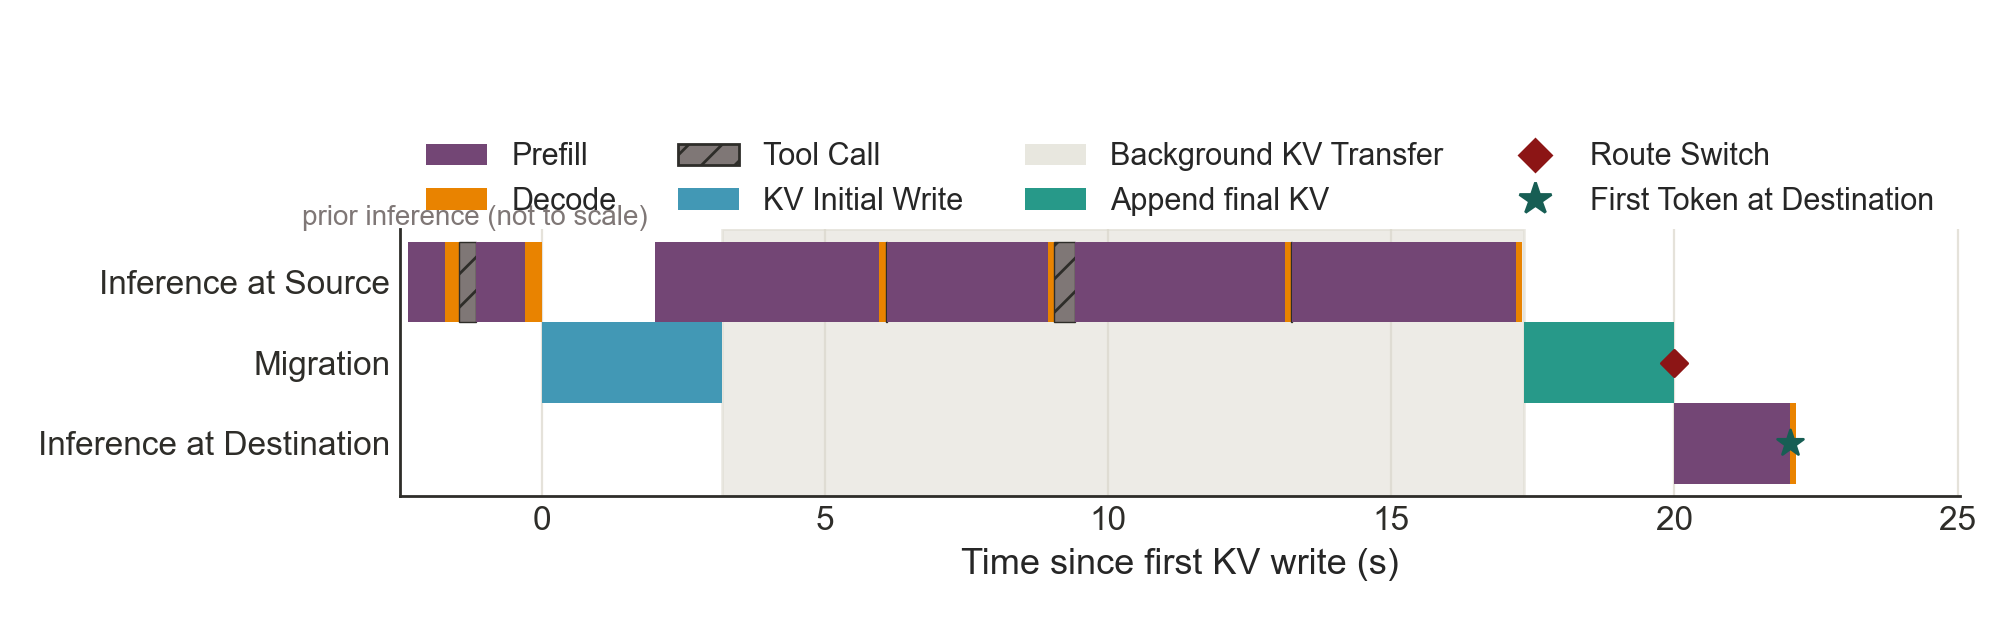
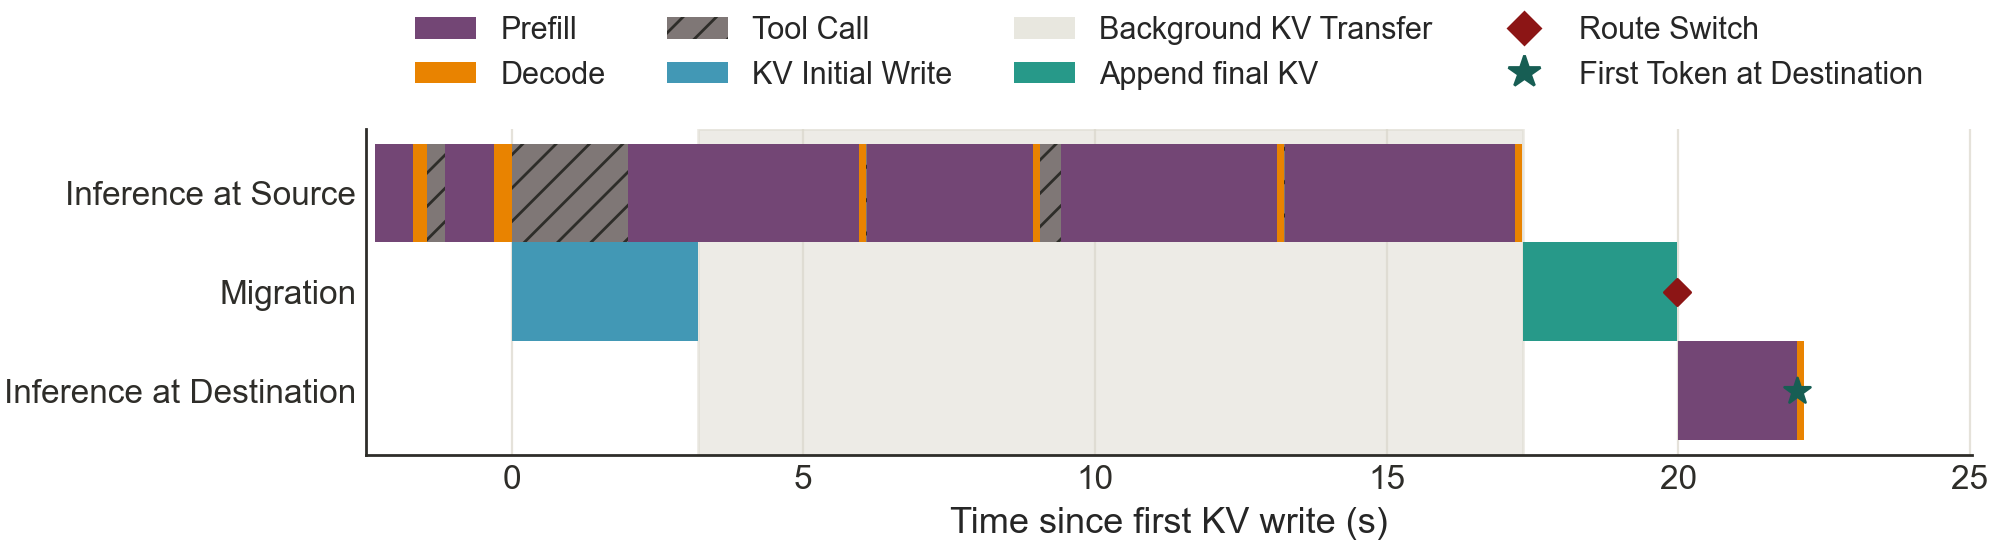
Polish compact handoff timelines

diff --git a/agent-migrate/queue-haul/plot_testbed_kv_timeline.py b/agent-migrate/queue-haul/plot_testbed_kv_timeline.py
@@ -128,6 +128,23 @@ def extract(root: Path, scenario_id: str) -> tuple[list[dict], list[dict]]:
         })
 
     segments = []
+    for session_id in continuations:
+        first_start = min(
+            int(row["start_ns"]) for row in activities
+            if row["session_id"] == session_id
+        )
+        if first_start > base:
+            segments.append({
+                "scenario_id": scenario_id,
+                "session_id": session_id,
+                "stage": "pre_activity",
+                "location": "source",
+                "phase": "Tool Call",
+                "start_s": 0,
+                "finish_s": seconds(first_start),
+                "evidence_status": "observed_application_gap",
+                "provenance": str(run / "result.json"),
+            })
     for index, activity in enumerate(activities):
         next_start = activities[index + 1]["start_ns"] \
             if index + 1 < len(activities) else None
@@ -222,7 +239,10 @@ def plot(timeline_path: Path, inference_path: Path, out: Path) -> None:
         ("catch_up_start_s", "catch_up_finish_s", phase_labels[1], "catch"),
     )
     if method == "replay":
-        phases = ()
+        phases = (
+            ("bulk_start_s", "bulk_send_finish_s", "Context Transfer", "bulk"),
+            ("catch_up_start_s", "catch_up_send_finish_s", "Context Transfer", "bulk"),
+        )
     gantt.axvspan(
         float(timeline[0]["quiesce_s"]),
         float(timeline[0]["catch_up_start_s"]),
@@ -246,12 +266,8 @@ def plot(timeline_path: Path, inference_path: Path, out: Path) -> None:
                 source_y, width, left=left, height=.32,
                 color=colors[phase], hatch="//" if phase == "tool" else None,
                 edgecolor=colors["text"] if phase == "tool" else "none",
-                linewidth=.5, zorder=3,
+                linewidth=0, zorder=3,
             )
-        gantt.text(
-            -1.18, source_y - .2, "prior inference (not to scale)",
-            ha="center", va="bottom", fontsize=10, color=colors["tool"],
-        )
         for start_name, end_name, label, color in phases:
             start, end = float(row[start_name]), float(row[end_name])
             gantt.barh(
@@ -275,7 +291,7 @@ def plot(timeline_path: Path, inference_path: Path, out: Path) -> None:
                 inference_y, end - start, left=start, height=.32,
                 color=colors[color], hatch="//" if color == "tool" else None,
                 edgecolor=colors["text"] if color == "tool" else "none",
-                linewidth=.5,
+                linewidth=0,
                 label=phase if phase not in inference_labels else None,
                 zorder=3,
             )
@@ -304,6 +320,7 @@ def plot(timeline_path: Path, inference_path: Path, out: Path) -> None:
         ),
         Patch(facecolor=colors["catch"], label=phase_labels[1]),
     ) if method == "kv_transfer" else (
+        Patch(facecolor=colors["bulk"], label="Context Transfer"),
         Patch(
             facecolor=colors["drain"], alpha=.6,
             label="Pause (drain active request)",
@@ -314,7 +331,7 @@ def plot(timeline_path: Path, inference_path: Path, out: Path) -> None:
         Patch(facecolor=colors["decode"], label="Decode"),
         Patch(
             facecolor=colors["tool"], edgecolor=colors["text"],
-            hatch="//", label="Tool Call",
+            hatch="//", linewidth=0, label="Tool Call",
         ),
         *migration_handles,
         Line2D(
@@ -343,9 +360,9 @@ def plot(timeline_path: Path, inference_path: Path, out: Path) -> None:
     end = max(float(row["first_token_s"]) for row in timeline) + 3
     gantt.set_xlim(-2.5, end)
     gantt.set_xticks(range(0, int(end) + 1, 5))
-    fig.subplots_adjust(left=.2, right=.98, top=.63, bottom=.2)
-    fig.savefig(out.with_suffix(".png"), dpi=200)
-    fig.savefig(out.with_suffix(".pdf"))
+    fig.tight_layout(pad=.25)
+    fig.savefig(out.with_suffix(".png"), dpi=200, bbox_inches="tight", pad_inches=.02)
+    fig.savefig(out.with_suffix(".pdf"), bbox_inches="tight", pad_inches=.02)
     plt.close(fig)
 
 

diff --git a/agent-migrate/queue-haul/tests/test_testbed_kv_timeline.py b/agent-migrate/queue-haul/tests/test_testbed_kv_timeline.py
@@ -76,8 +76,9 @@ def test_extract_preserves_pause_and_inference_semantics(tmp_path):
     assert row["commit_s"] == pytest.approx(4.1)
     assert row["first_token_s"] == pytest.approx(4.4)
     assert [(segment["location"], segment["phase"],
-             segment["start_s"], segment["finish_s"])
+            segment["start_s"], segment["finish_s"])
             for segment in segments] == [
+        ("source", "Tool Call", 0, .1),
         ("source", "Prefill", .1, .6),
         ("source", "Decode", .6, .8),
         ("source", "Tool Call", .8, 1.1),
